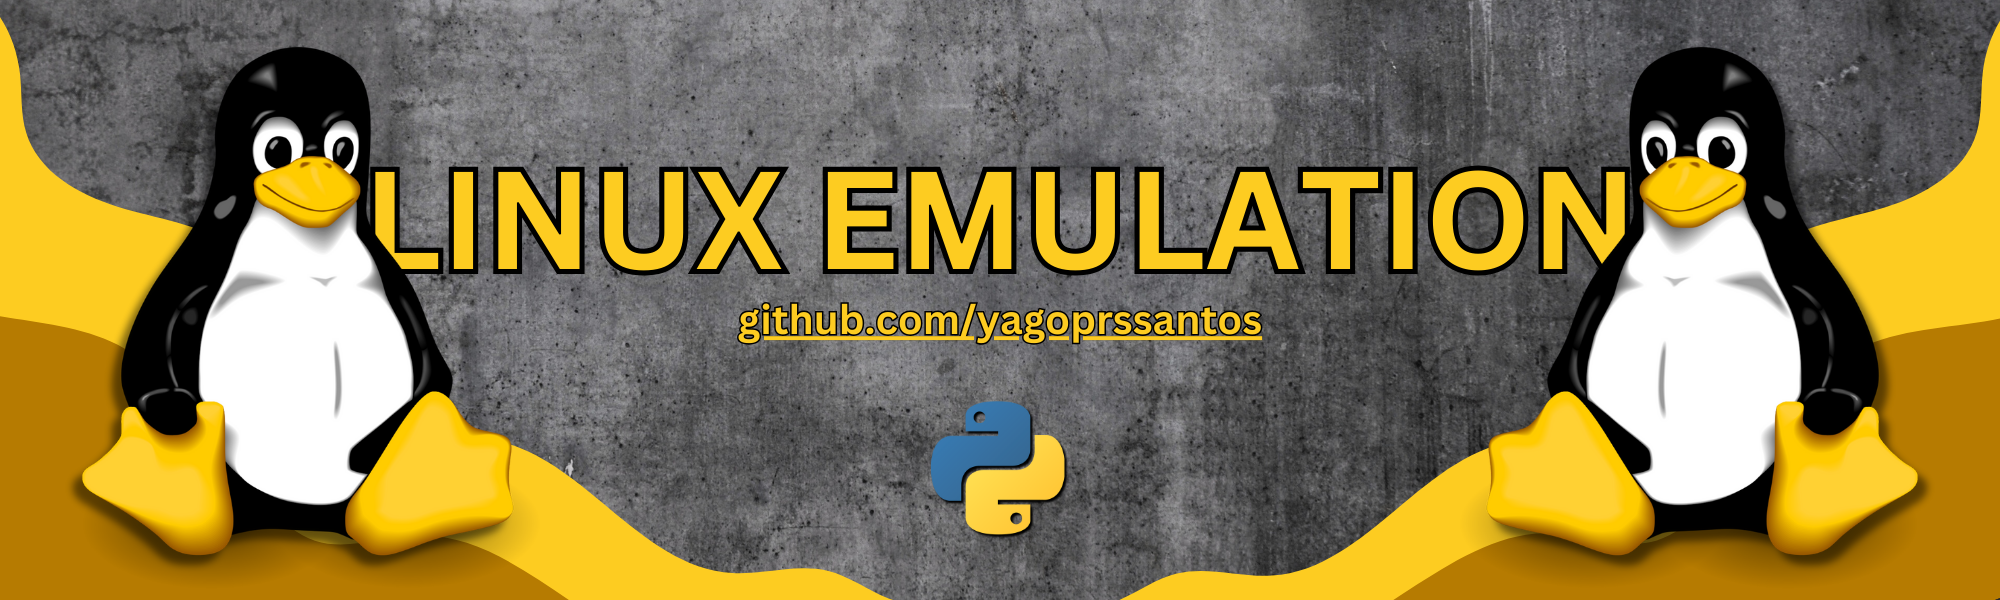
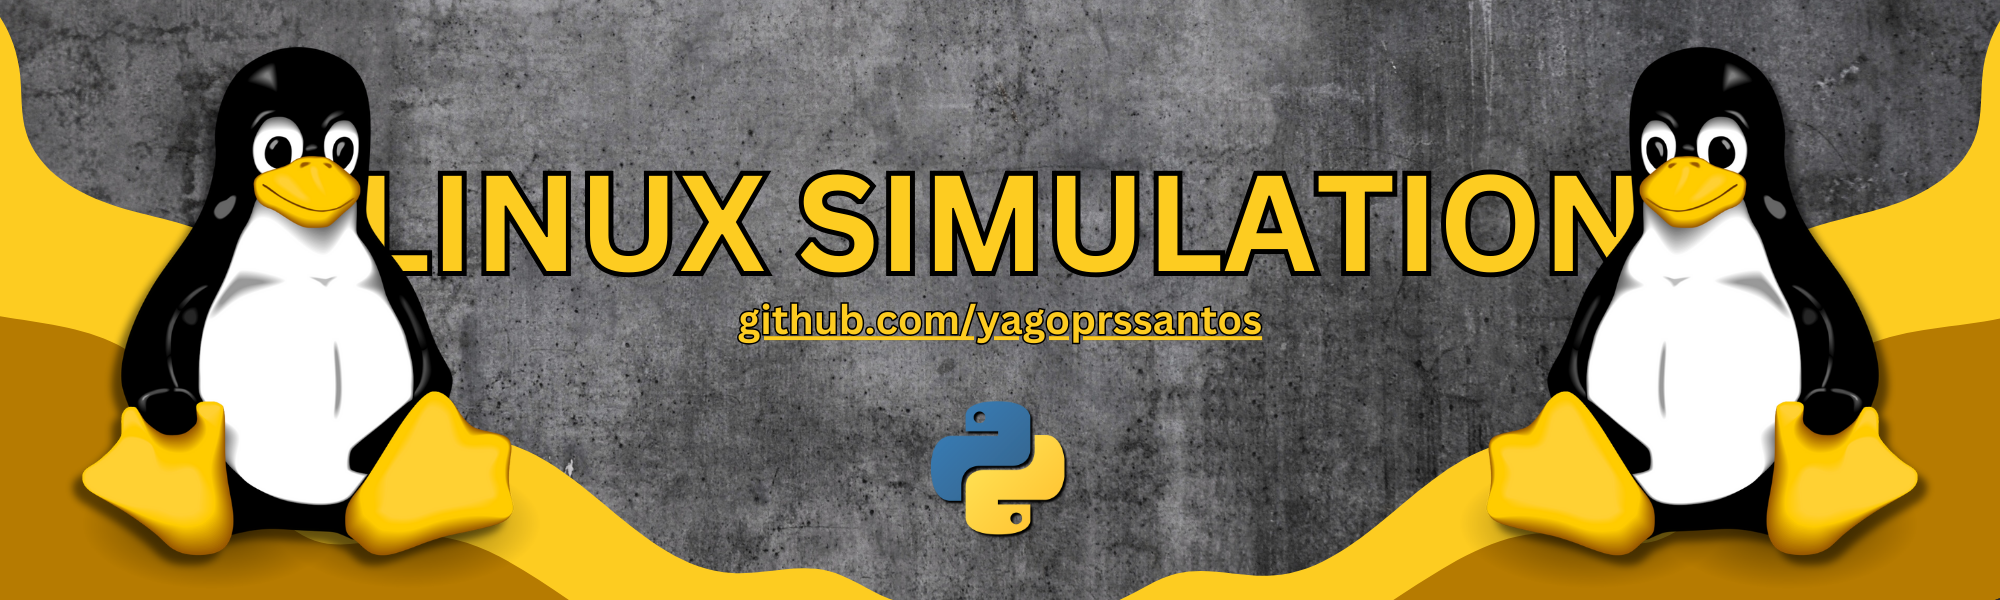
Complete Code

Changed region(s): [[0.186, 0.27, 0.837, 0.48]]

diff --git a/Projeto Debian/main.py b/Projeto Debian/main.py
@@ -2,7 +2,48 @@ from loading import *
 from menus import *
 from list import *
 
+
 """
+Este código representa um simulador interativo de um ambiente do sistema operacional Linux.
+Ele oferece funcionalidades simuladas relacionadas a hardware, aplicativos, repositórios,
+servidores e informações gerais do sistema, permitindo que o usuário explore e interaja
+com diferentes aspectos desse sistema operacional fictício.
+
+No início do código, é possível perceber que todas as variáveis e objetos são inicializados
+e instanciados. Isso é feito para que o usuário possa interagir com o sistema operacional
+de forma mais dinâmica, sem a necessidade de criar e instanciar objetos a cada interação.
+Caso deseja alterar algo, altere os valores das variáveis e objetos nessas instâncias.
+
+Neste projeto, você pode encontrar:
+
+- Análise de Hardware: É possível visualizar informações de hardware, como tipo, modelo,
+processador, memória RAM e armazenamento.
+
+- Simulação de Aplicativos:  instalação e remoção de aplicativos em um sistema
+operacional, além de funcionalidades como iniciar e encerrar aplicativos, e visualizar
+informações de aplicativos.
+
+- Gerenciamento de Pacotes: Simulação de um sistema de repositório de software com a capacidade
+de instalar e remover pacotes de software individualmente.
+
+- Servidores: Experimente um servidor web com a capacidade de adicionar e remover máquinas
+virtuais, além de visualizar informações de máquinas virtuais.
+
+- Informações do Sistema: Acesse informações gerais do sistema operacional, como versão do
+kernel, arquitetura de software e informações de hardware, que podem ser úteis para
+desenvolvedores e usuários.
+
+Curiosidades do projeto:
+- Este projeto utiliza conceitos de programação orientada a objetos para modelar o ambiente simulado
+do sistema operacional Linux, como classes, objetos, herança, polimorfismo e encapsulamento.
+- As funcionalidades são simuladas e não realizam operações reais do sistema, proporcionando uma
+experiência de usuário fictícia, ou seja, não é possível instalar aplicativos reais ou acessar]
+repositórios reais. Então não se preocupe, você não irá quebrar nada!
+
+Agradeço por ler até aqui e explorar este simulador interativo de sistema operacional! 
+
+Para acessar o código fonte deste projeto, visite o repositório no GitHub:
+[https://github.com/yagoprssantos/Linux-System-Simulator]
 
 """
 

diff --git a/README.md b/README.md
@@ -1,4 +1,4 @@
-# Sistema de Emulação Linux
+# Simulador do Sistema Operacional Linux
 
 ![Banner](banner.png)
 
@@ -8,20 +8,38 @@
 - [Instalação](#instalação)
 - [Uso](#uso)
 - [Funcionalidades](#funcionalidades)
-- [Começando](#começando)
+- [Estrutura do Projeto](#estrutura-do-projeto)
 - [Contribuindo](#contribuindo)
-- [Licença](#licença)
-- [Agradecimentos](#agradecimentos)
 
-## Introdução
 
-O Sistema de Emulação Linux é uma ferramenta educacional abrangente que emula um ambiente Linux simplificado. Ele fornece aos usuários uma experiência prática em trabalhar com componentes de hardware, software e rede em um ambiente simulado e controlado.
+## Descrição
 
-Se você é um aspirante a administrador de sistemas, desenvolvedor ou simplesmente curioso sobre como o Linux funciona, este sistema de emulação oferece uma maneira segura de explorar e experimentar vários aspectos de um sistema Linux.
+O Simulador do Sistema Operacional Linux é uma ferramenta educacional abrangente que simula um ambiente Linux simplificado. Ele fornece aos usuários uma experiência prática em trabalhar com componentes de hardware, software e rede em um ambiente simulado e controlado.
+
+Se você é um aspirante a administrador de sistemas, desenvolvedor ou simplesmente curioso sobre como o Linux funciona, este simulador oferece uma maneira segura de explorar e experimentar vários aspectos de um sistema Linux.
+
+
+## Instalação
+
+Para instalar o simulador, você precisa ter o Python 3 instalado em seu sistema. Você pode baixar o Python no site oficial: https://www.python.org/downloads/
+
+Depois de ter o Python instalado, você pode baixar o código-fonte do simulador do repositório do GitHub:
+
+`git clone https://github.com/your-username/your-project.git`
+
+
+## Uso
+
+Para executar o simulador, navegue até o diretório onde você baixou o código-fonte e execute o seguinte comando: 
+
+`python main.py`
+
+Isso iniciará o simulador e exibirá o menu principal. A partir do menu principal, você pode escolher visualizar informações sobre o hardware, o servidor, a arquitetura de software ou os aplicativos instalados. Você também pode configurar os aplicativos instalados, instalando, desinstalando, iniciando, parando ou gerenciando permissões para eles.
+
 
 ## Funcionalidades
 
-- **Emulação de Hardware**: Experimente as funcionalidades de uma máquina virtual com componentes como CPU, memória e armazenamento.
+- **Simulação de Hardware**: Experimente as funcionalidades de uma máquina virtual com componentes como CPU, memória e armazenamento.
 
 - **Componentes de Software**: Interaja com um sistema operacional semelhante ao Linux, incluindo kernel e arquitetura de software.
 
@@ -29,9 +47,10 @@ Se você é um aspirante a administrador de sistemas, desenvolvedor ou simplesme
 
 - **Interface Amigável**: Utilize uma interface intuitiva baseada em menus que torna o sistema acessível a usuários de todos os níveis.
 
+
 ## Estrutura do Projeto
 
-- **main.py**: O ponto de entrada principal para iniciar o sistema de emulação.
+- **main.py**: O ponto de entrada principal para iniciar o simulador do sistema operacional.
 
 - **loading.py**: Módulo contendo funções para animações de carregamento.
 
@@ -43,7 +62,7 @@ Se você é um aspirante a administrador de sistemas, desenvolvedor ou simplesme
 
 - **kernel.py**: Define a `LinuxKernelAPI` para interações do kernel.
 
-- **appInterface.py**: Fornece uma emulação da interface e gerenciamento de aplicativos.
+- **appInterface.py**: Fornece uma simulação da interface e gerenciamento de aplicativos.
 
 - **package.py**: Define a classe `Package` para pacotes de software no sistema.
 
@@ -51,27 +70,18 @@ Se você é um aspirante a administrador de sistemas, desenvolvedor ou simplesme
 
 - **server.py**: Representa um servidor para simulações de rede.
 
-## Uso
-
-1. Clone o repositório: `git clone https://github.com/your-username/your-project.git`
-2. Navegue até o diretório do projeto: `cd your-project`
-3. Execute `main.py` para iniciar o sistema de emulação.
-4. Use a interface baseada em menus para interagir com a simulação.
-
-## Notas Adicionais
-
-- Este sistema de emulação destina-se apenas a fins educacionais e de demonstração.
-- Observe que este é um ambiente simulado e não adequado para uso no mundo real.
 
 ## Contribuindo
 
-Contribuições são bem-vindas! Se você deseja melhorar o projeto, faça um fork do repositório e crie uma solicitação de pull. Você também pode abrir problemas para relatórios de bugs ou solicitações de recursos.
+Se você deseja contribuir para o projeto, faça um fork do repositório e crie uma solicitação de pull. Certifique-se de seguir as convenções de codificação usadas no projeto e escrever testes para qualquer nova funcionalidade.
 
-## Autor
 
-- [Yago Santos](https://github.com/yagoprssantos)
+## Agradecimentos e Link para o GitHub
 
+Agradeço por explorar este simulador do sistema operacional Linux!
+Para acessar o código fonte deste projeto e contribuir, visite nosso repositório no GitHub:
+[Link para o Repositório do GitHub](https://github.com/your-username/your-project)
 
 ---
 
-**Aproveite sua jornada de emulação Linux!**
+**Aproveite sua jornada de simulação do Linux!**
